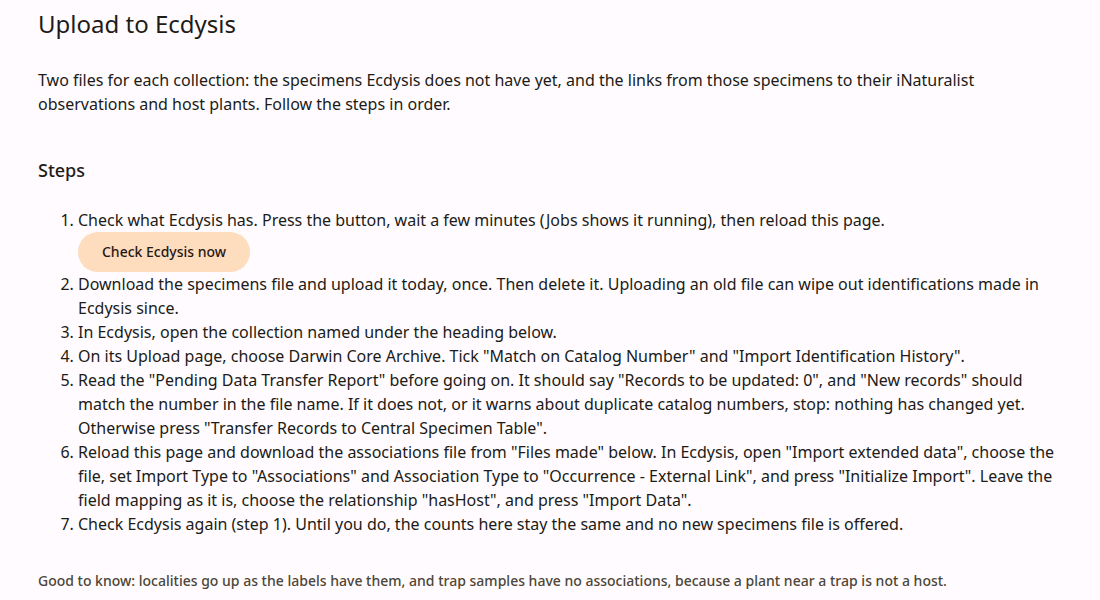
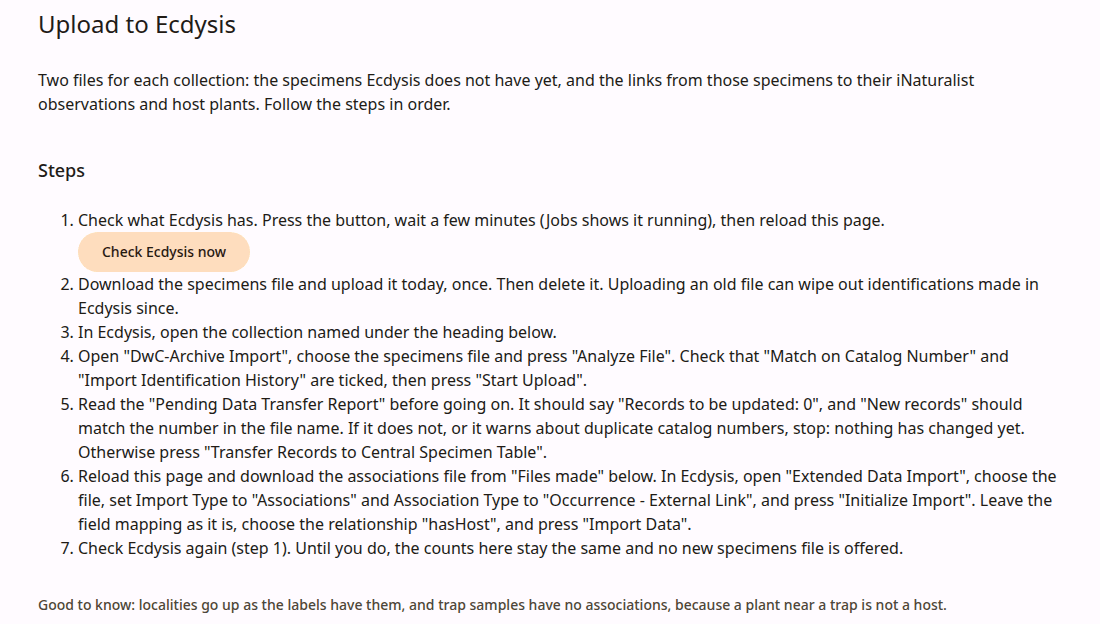
Name Symbiota's screens as they are, and record the rehearsal with real records
A rehearsal on a local copy of Symbiota with British Columbia's real records
showed that two labels in the Exports page's upload instructions did not match
what Symbiota's screens say. Step 4 now names "DwC-Archive Import", "Analyze
File" and "Start Upload", and step 6 says "Extended Data Import".

The architecture file uses the same names and gains a dated section on what the
rehearsal measured, one caution (a report page left open must not be used later,
because the transfer writes whatever is staged) and one limit (no trap sample or
expert determination was among the real specimens). The instructions screenshot
is retaken to show the new wording.

diff --git a/src/app/messages/en.ts b/src/app/messages/en.ts
@@ -2860,11 +2860,12 @@ export const en = {
         download:
           "Download the specimens file and upload it today, once. Then delete it. Uploading an old file can wipe out identifications made in Ecdysis since.",
         collection: "In Ecdysis, open the collection named under the heading below.",
-        uploadPage: 'On its Upload page, choose Darwin Core Archive. Tick "Match on Catalog Number" and "Import Identification History".',
+        uploadPage:
+          'Open "DwC-Archive Import", choose the specimens file and press "Analyze File". Check that "Match on Catalog Number" and "Import Identification History" are ticked, then press "Start Upload".',
         report:
           'Read the "Pending Data Transfer Report" before going on. It should say "Records to be updated: 0", and "New records" should match the number in the file name. If it does not, or it warns about duplicate catalog numbers, stop: nothing has changed yet. Otherwise press "Transfer Records to Central Specimen Table".',
         associations:
-          'Reload this page and download the associations file from "Files made" below. In Ecdysis, open "Import extended data", choose the file, set Import Type to "Associations" and Association Type to "Occurrence - External Link", and press "Initialize Import". Leave the field mapping as it is, choose the relationship "hasHost", and press "Import Data".',
+          'Reload this page and download the associations file from "Files made" below. In Ecdysis, open "Extended Data Import", choose the file, set Import Type to "Associations" and Association Type to "Occurrence - External Link", and press "Initialize Import". Leave the field mapping as it is, choose the relationship "hasHost", and press "Import Data".',
         readAgain: "Check Ecdysis again (step 1). Until you do, the counts here stay the same and no new specimens file is offered.",
         localities: "Good to know: localities go up as the labels have them, and trap samples have no associations, because a plant near a trap is not a host.",
       },

diff --git a/src/app/ecdysis-upload.ts b/src/app/ecdysis-upload.ts
@@ -37,7 +37,7 @@ import type { CsvTiming } from "./request-timing.js";
  * The two files a person uploads to Ecdysis by hand (beeline-8dx9.12, Peter,
  * 2026-11-20): a Darwin Core archive of the specimens Ecdysis does not hold,
  * and a CSV of associations (the iNaturalist observation and the host plant)
- * for Symbiota's "Import extended data" page. What Symbiota does with them is
+ * for Symbiota's "Extended Data Import" page. What Symbiota does with them is
  * measured in docs/research/symbiota-import-test-2026-11-20.md; the reasons
  * for each choice below are in docs/architecture/the-upload-to-ecdysis.md.
  *
@@ -1032,7 +1032,7 @@ export async function buildArchive(
 // --- The associations file -----------------------------------------------------
 
 /**
- * The headers Symbiota's "Import extended data" page maps by name for an
+ * The headers Symbiota's "Extended Data Import" page maps by name for an
  * external link: the subject by catalog number, the iNaturalist observation as
  * the resource's address, and the host plant as a name (OccurrenceImport.php
  * 440-485). There is no objectID, so Symbiota's own export gives the address

diff --git a/docs/architecture/the-upload-to-ecdysis.md b/docs/architecture/the-upload-to-ecdysis.md
@@ -100,16 +100,22 @@ Symbiota's unique key on a determination is (record, `dateIdentified`, `identifi
 
 ## The associations file
 
-`associationsCsv` writes, for the specimens a finished download held, one row for each whose sample has an iNaturalist observation that still exists (`observationGone` is left out: no page to send anyone to) and is not a trap sample, with exactly `subject identifier: catalogNumber`, `resourceUrl` (`https://www.inaturalist.org/observations/<id>`) and `verbatimSciname` (the host as the observation named it, at the rank Beeline holds, empty where there is none): the headers Symbiota's "Import extended data" maps for an external link (`OccurrenceImport.php` 440-485). It has no `objectID`, so Symbiota's export shows the observation's address as the related resource, which GloBI recognises, and no `occurrenceID`, so the subject is found by catalog number alone, in one round of uploads. UTF-8, quoted by RFC 4180, with no byte order mark and no formula guard: the program's CSV downloads have both for spreadsheets, but this file is read by Symbiota, which loaded it the same with and without a mark, and a guard would write an apostrophe into a name that begins with `-`, `=`, `+` or `@`. A person loads it with the association type "Occurrence - External Link" and the relationship "hasHost", the only fitting choice the page offers today ("visits flowers of", which GloBI reads as a flower visit, is not on its list).
+`associationsCsv` writes, for the specimens a finished download held, one row for each whose sample has an iNaturalist observation that still exists (`observationGone` is left out: no page to send anyone to) and is not a trap sample, with exactly `subject identifier: catalogNumber`, `resourceUrl` (`https://www.inaturalist.org/observations/<id>`) and `verbatimSciname` (the host as the observation named it, at the rank Beeline holds, empty where there is none): the headers Symbiota's "Extended Data Import" page (titled "Extended Data Importer") maps for an external link (`OccurrenceImport.php` 440-485). It has no `objectID`, so Symbiota's export shows the observation's address as the related resource, which GloBI recognises, and no `occurrenceID`, so the subject is found by catalog number alone, in one round of uploads. UTF-8, quoted by RFC 4180, with no byte order mark and no formula guard: the program's CSV downloads have both for spreadsheets, but this file is read by Symbiota, which loaded it the same with and without a mark, and a guard would write an apostrophe into a name that begins with `-`, `=`, `+` or `@`. A person loads it with the association type "Occurrence - External Link" and the relationship "hasHost", the only fitting choice the page offers today ("visits flowers of", which GloBI reads as a flower visit, is not on its list).
 
 ## What a person is told, and why
 
-The page (`m.exports.ecdysis`) gives the steps in this order: read Ecdysis now (the button reuses the Jobs page's `POST /jobs/run/:name`; it redirects to Jobs, which shows the run); download the archive and upload it once, today, then delete it, because uploading it again later would replace identifications made in Ecdysis since (Symbiota overwrites a matched record whole and never compares dates), and the first archive of a year need not be the last, since what is left out is offered again after the next read; the Ecdysis collection to upload into, named under each collection's heading; "Darwin Core archive", making sure "Match on Catalog Number" (ticked by default, `specuploadmap.php` 449) and "Import Identification History" are ticked; stop at the "Pending Data Transfer Report" unless it says "Records to be updated: 0", the new records are the number in the archive's file name, and it shows no line "Records matching on catalog number that will be appended" (`specuploadprocessor.php` 168, from `SpecUploadBase.php` 815-846, with the warning "This will result in records with duplicate catalog numbers"; it appears when the switch is off); the associations file of that archive on "Import extended data" with "Occurrence - External Link" and "hasHost"; read Ecdysis again, because the counts do not change and no second archive is offered until it has; localities are as the labels have them.
+The page (`m.exports.ecdysis`) gives the steps in this order: read Ecdysis now (the button reuses the Jobs page's `POST /jobs/run/:name`; it redirects to Jobs, which shows the run); download the archive and upload it once, today, then delete it, because uploading it again later would replace identifications made in Ecdysis since (Symbiota overwrites a matched record whole and never compares dates), and the first archive of a year need not be the last, since what is left out is offered again after the next read; the Ecdysis collection to upload into, named under each collection's heading; the collection's "DwC-Archive Import" link (the page is headed "Manual DwC-Archive Import: Identify Data Source"), choosing the file and pressing "Analyze File", making sure "Match on Catalog Number" (ticked by default, `specuploadmap.php` 449) and "Import Identification History" are ticked, then pressing "Start Upload"; stop at the "Pending Data Transfer Report" unless it says "Records to be updated: 0", the new records are the number in the archive's file name, and it shows no line "Records matching on catalog number that will be appended" (`specuploadprocessor.php` 168, from `SpecUploadBase.php` 815-846, with the warning "This will result in records with duplicate catalog numbers"; it appears when the switch is off), and otherwise press "Transfer Records to Central Specimen Table"; the associations file of that archive on "Extended Data Import" with "Occurrence - External Link" and "hasHost"; read Ecdysis again, because the counts do not change and no second archive is offered until it has; localities are as the labels have them.
 
 The archive's file name carries the collection, the year, the number of specimens and the Pacific date and time written (`uploadFileName`), so an old one is recognised and thrown away and the number the pre-transfer report must show is in the name. Responses carry `cache-control: no-store`.
 
 ## Verified against a real Symbiota (2026-11-20)
 
-A synthetic store of invented people and places (32 specimens in the file: an expert's determination of record, volunteers' only, none, two identical undated determinations, a trap sample with a range of dates, a host at genus and at family rank, no observation, a disposition and remark, quotes, semicolons, an accent) was imported through Symbiota's own upload pages into a live-managed collection that already held four other records. Every cell of every record landed in the column above. The four earlier records were byte-for-byte unchanged afterwards (hashed). Names and current flags were as specified, and the end date was in `eventDate2` with `endDayOfYear`. A second import of the same archive duplicated nothing and changed no value, but it moved every record's `dateLastModified`: Symbiota's update first blanks `countryCode` and `continent`, then fills them again, and the blanking is a change to the row. The 29 associations loaded through "Import extended data". Symbiota's own Darwin Core export then showed the record, its identifications and the association.
+A synthetic store of invented people and places (32 specimens in the file: an expert's determination of record, volunteers' only, none, two identical undated determinations, a trap sample with a range of dates, a host at genus and at family rank, no observation, a disposition and remark, quotes, semicolons, an accent) was imported through Symbiota's own upload pages into a live-managed collection that already held four other records. Every cell of every record landed in the column above. The four earlier records were byte-for-byte unchanged afterwards (hashed). Names and current flags were as specified, and the end date was in `eventDate2` with `endDayOfYear`. A second import of the same archive duplicated nothing and changed no value, but it moved every record's `dateLastModified`: Symbiota's update first blanks `countryCode` and `continent`, then fills them again, and the blanking is a change to the row. The 29 associations loaded through "Extended Data Import". Symbiota's own Darwin Core export then showed the record, its identifications and the association.
 
-What the guards exist for, also measured: after an expert named a volunteer-only record in Symbiota's editor, importing the same archive again with matching on blanked the record's name, determiner and date and moved its `dateLastModified`, while the determination history kept the expert's current row, so the record and its history disagreed. Three identifications differing only by an accent, case or spacing in the determiner collapsed to the first row in the file, and the one flagged current was lost. "Import extended data" skips a catalog number the collection does not hold and shows no "create new records" box for associations; a request that carries that field by hand creates a blank record. Symbiota's "skeletal" upload type creates new records for catalog numbers the collection lacks, with the CSV's fields, `basisOfRecord` PreservedSpecimen and an "undetermined" determination by "unknown" dated "s.d.", the pattern seen on Washington's records. The pre-transfer report reads "Records to be updated: 0" and "New records: N" for a new-only archive, and "Records to be updated: N" followed by "Caution:   incoming records will replace existing records" for one that matches; the record count is unchanged until the button "Transfer Records to Central Specimen Table" is pressed. The scripts are not kept in the repository.
+What the guards exist for, also measured: after an expert named a volunteer-only record in Symbiota's editor, importing the same archive again with matching on blanked the record's name, determiner and date and moved its `dateLastModified`, while the determination history kept the expert's current row, so the record and its history disagreed. Three identifications differing only by an accent, case or spacing in the determiner collapsed to the first row in the file, and the one flagged current was lost. "Extended Data Import" skips a catalog number the collection does not hold and shows no "create new records" box for associations; a request that carries that field by hand creates a blank record. Symbiota's "skeletal" upload type creates new records for catalog numbers the collection lacks, with the CSV's fields, `basisOfRecord` PreservedSpecimen and an "undetermined" determination by "unknown" dated "s.d.", the pattern seen on Washington's records. The pre-transfer report reads "Records to be updated: 0" and "New records: N" for a new-only archive, and "Records to be updated: N" followed by "Caution:   incoming records will replace existing records" for one that matches; the record count is unchanged until the button "Transfer Records to Central Specimen Table" is pressed. The scripts are not kept in the repository.
+
+## Rehearsed with real records (2026-11-21)
+
+A rehearsal on a local copy of Symbiota used British Columbia's real records. Its 9,452 existing records were loaded into a live-managed collection whose GUID source is the catalog number. The 2026 specimens file (8,085 specimens, with 369 identifications as history, none current, and no record with a name, because none has an expert determination) was then uploaded through Symbiota's own pages. The "Pending Data Transfer Report" read "Records to be updated: 0" and "New records: 8085". Stopping at the report changed nothing in the collection, so it works as a dry run. It left the upload staged, which the next upload for the collection replaces (`SpecUploadBase.php` 562-572) and which no visitor, editor or export sees. Pressing "Transfer Records to Central Specimen Table" added 8,085 records in about 12 seconds, and every record and determination that was already there was unchanged, byte for byte. All 8,085 new records matched the file in every mapped column. The associations file created 8,082 associations with none skipped, and loading it again added nothing. Uploading the specimens file a second time gave the report "Records to be updated: 8085 Caution: incoming records will replace existing records" and "New records: 0".
+
+One caution came out of it: Symbiota's transfer writes whatever is staged for the collection at that moment, not the upload that a particular report page was shown for, so a report page left open should not be used later. One limit remains: no trap sample and no expert determination were among the real 2026 specimens, so those paths rest on the earlier test with made-up records.
